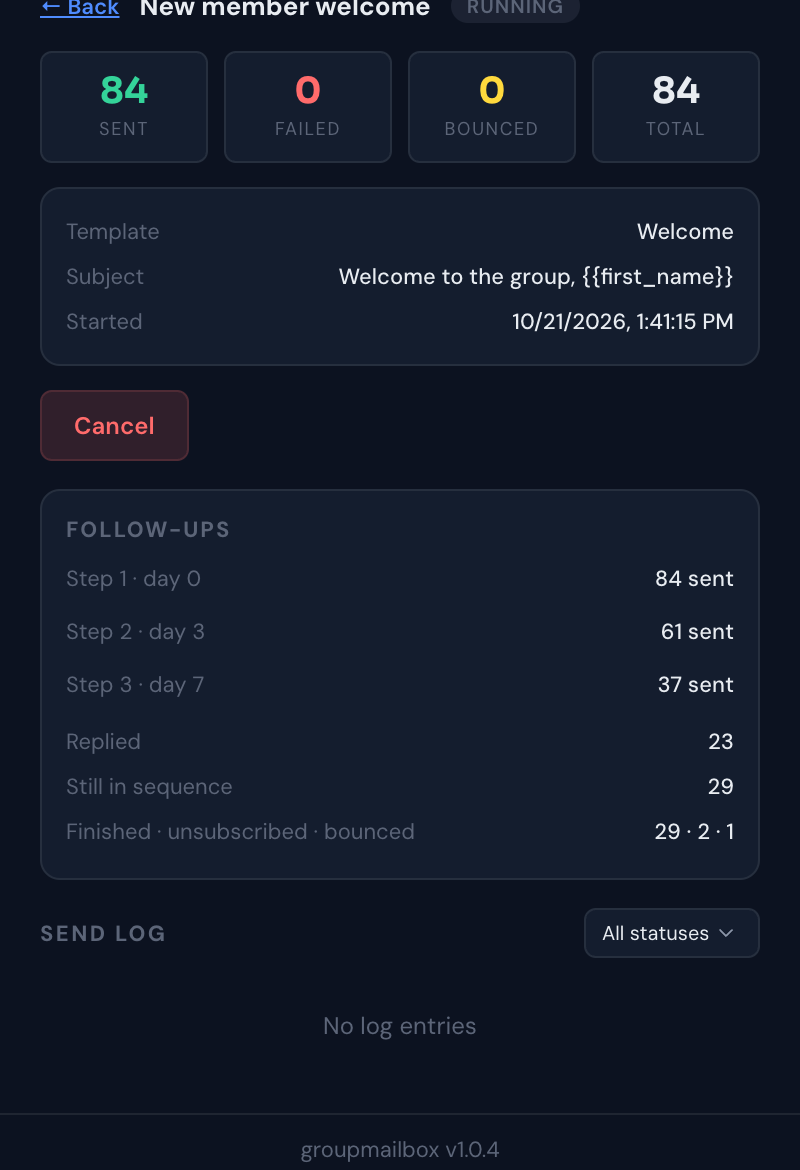
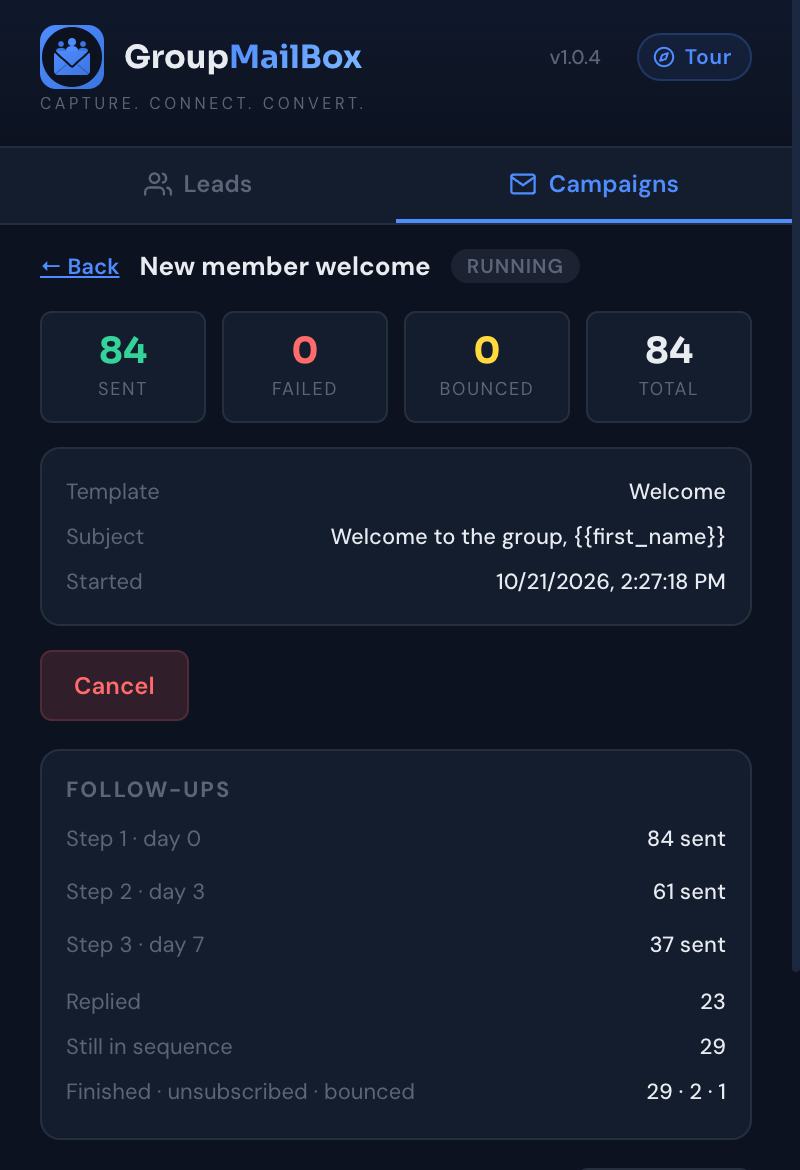
content: alternative pages for Groups Pro, GroupHunter, Groupwise, Group Doorman; store screenshots and listing update
Facts dated 30 Oct 2026 from the competitor research. Store images use the
real side panel with fictional sample data.

diff --git a/app/compare/groups-pro-alternative/page.tsx b/app/compare/groups-pro-alternative/page.tsx
@@ -1,0 +1,53 @@
+import type { Metadata } from 'next';
+import ComparisonPage from '@/components/ComparisonPage';
+
+// Facts checked 30 Oct 2026: AppSumo deal sold out (2 groups per code, 4.6 from 11 reviews), Chrome Web Store
+// listing returns an empty page, groupspro.io footer reads 2020, a 2025 AppSumo review says it stopped working
+// after the extension was shut down.
+export const metadata: Metadata = {
+  alternates: { canonical: '/compare/groups-pro-alternative/' },
+  title: 'Groups Pro Alternative: Keep Approving and Emailing Members (2026)',
+  description:
+    'Groups Pro’s AppSumo deal is sold out and its Chrome listing is gone. GroupMailBox approves Facebook group members, saves their answers to Google Sheets and sends follow-ups from your Gmail. Free plan.',
+};
+
+export default function GroupsProAlternativePage() {
+  return (
+    <ComparisonPage
+      competitorName="Groups Pro"
+      competitorSlug="groups-pro"
+      intro="Groups Pro approved Facebook group members who answered your questions and sent their emails to your autoresponder. Its AppSumo lifetime deal is sold out, its Chrome Web Store listing no longer shows the extension, and a 2025 review says it stopped working. If you relied on it, here is how to keep approving members and emailing them."
+      comparison={[
+        { feature: 'Status (checked 30 Oct 2026)', gmb: 'Active and updated', competitor: 'Chrome listing empty, AppSumo deal sold out' },
+        { feature: 'Approve members who answered', gmb: 'Yes, at a safe pace (Pro)', competitor: 'Yes (all, answered all questions, or a pre-approved list)' },
+        { feature: 'Save answers', gmb: 'Every answer, to your Google Sheet', competitor: 'Name and email to your autoresponder' },
+        { feature: 'Welcome and follow-up emails', gmb: 'Built in, from your Gmail, stops on reply', competitor: 'Through your autoresponder' },
+        { feature: 'Needs another email tool', gmb: 'No', competitor: 'Yes (ActiveCampaign, ConvertKit, HighLevel or Zapier)' },
+        { feature: 'Free plan', gmb: 'Yes, 1 group', competitor: '—' },
+      ]}
+      gmbPros={[
+        'Follow-ups sent from your own Gmail, so no autoresponder subscription is needed',
+        'Every screening answer saved, not only name and email',
+        'Approves at a human pace and pauses if Facebook pushes back',
+        'Your list lives in your Google Sheet, so you can export it anywhere',
+      ]}
+      competitorPros={['Simple approval modes', 'Native links to popular autoresponders']}
+      gmbCons={['No native ActiveCampaign or HighLevel push yet (export from Sheets instead)', 'Newer in the market']}
+      competitorCons={['Chrome Web Store listing no longer shows the extension', 'Lifetime deal sold out, so new users cannot buy it']}
+      faq={[
+        {
+          question: 'Is Groups Pro still working?',
+          answer: 'We cannot confirm it is. On 30 October 2026 its Chrome Web Store page showed no extension, its AppSumo deal was sold out, and a 2025 AppSumo review said it stopped working after the extension was shut down. Check with the vendor if you still have access.',
+        },
+        {
+          question: 'How do I switch from Groups Pro to GroupMailBox?',
+          answer: 'Install GroupMailBox, open your group’s member requests page and connect a Google Sheet. New requests and their answers are saved from that moment. To keep emailing your existing list, import it into the same sheet.',
+        },
+        {
+          question: 'Can I still send members to my autoresponder?',
+          answer: 'Yes. Your Google Sheet works with any tool that imports from Sheets or CSV. Many admins find they no longer need the autoresponder, because GroupMailBox sends the welcome email and follow-ups from Gmail.',
+        },
+      ]}
+    />
+  );
+}

diff --git a/app/compare/group-doorman-alternative/page.tsx b/app/compare/group-doorman-alternative/page.tsx
@@ -1,0 +1,49 @@
+import type { Metadata } from 'next';
+import ComparisonPage from '@/components/ComparisonPage';
+
+// Facts checked 30 Oct 2026 (Chrome Web Store + groupdoorman.com): 201 users, 4.4 from 8 ratings, v1.3.11
+// updated 8 Jun 2026; approval rules + autorun; Sheets and 20–30+ email platforms; email verification;
+// no public prices; 14-day trial, 30-day money-back.
+export const metadata: Metadata = {
+  alternates: { canonical: '/compare/group-doorman-alternative/' },
+  title: 'Group Doorman Alternative with Gmail Follow-ups (2026)',
+  description:
+    'Compare Group Doorman and GroupMailBox for Facebook group lead capture. GroupMailBox shows its prices, has a free plan and sends follow-ups from your Gmail that stop when members reply.',
+};
+
+export default function GroupDoormanAlternativePage() {
+  return (
+    <ComparisonPage
+      competitorName="Group Doorman"
+      competitorSlug="group-doorman"
+      intro="Group Doorman collects membership answers, approves members by rule and sends them to Google Sheets or one of many email platforms, with email verification built in. GroupMailBox does the capture and approval too, and then follows up from your own Gmail, so you do not need a separate email platform."
+      comparison={[
+        { feature: 'Capture requests + answers', gmb: 'Yes', competitor: 'Yes' },
+        { feature: 'Approval', gmb: 'Auto-approve at a safe pace (Pro)', competitor: 'Rules (all, some or all questions answered) with an autorun schedule' },
+        { feature: 'Google Sheets', gmb: 'Native', competitor: 'Yes' },
+        { feature: 'Email platforms', gmb: 'Sends from your Gmail, stops on reply', competitor: '20+ platforms such as Mailchimp, ActiveCampaign, ConvertKit' },
+        { feature: 'Public pricing', gmb: 'Free, $29 and $99 a month', competitor: 'Not shown on its site (14-day trial)' },
+        { feature: 'Free plan', gmb: 'Yes, 1 group', competitor: 'Trial only' },
+      ]}
+      gmbPros={[
+        'No email platform needed: welcome and follow-ups go from your Gmail',
+        'Follow-ups stop automatically when a member replies',
+        'Prices on the page, plus a free plan',
+        'Finds emails even inside a sentence',
+      ]}
+      competitorPros={['Many email platform integrations', 'Verifies emails before sending them on', 'Flexible approval rules and schedule']}
+      gmbCons={['Fewer native email platform integrations (export from Sheets instead)', 'No email verification step yet']}
+      competitorCons={['Prices not shown publicly', 'Small user base (about 200 Chrome users)']}
+      faq={[
+        {
+          question: 'What is the difference between Group Doorman and GroupMailBox?',
+          answer: 'Both capture member answers and approve members. Group Doorman hands the email address to your email platform. GroupMailBox sends the welcome email and follow-ups itself, from your Gmail, and stops when someone replies.',
+        },
+        {
+          question: 'How much does Group Doorman cost?',
+          answer: 'Its website did not show prices when we checked on 30 October 2026; it offers a 14-day free trial and a 30-day money-back guarantee. GroupMailBox is free for one group, then $29 or $99 a month.',
+        },
+      ]}
+    />
+  );
+}

diff --git a/app/compare/grouphunter-alternative/page.tsx b/app/compare/grouphunter-alternative/page.tsx
@@ -1,0 +1,48 @@
+import type { Metadata } from 'next';
+import ComparisonPage from '@/components/ComparisonPage';
+
+// Facts checked 30 Oct 2026: grouphunter.io now serves an unrelated site; WHOIS shows the domain re-registered
+// on 6 Oct 2026. Earlier it described itself as capture + auto-approve + CRM sync (search index snapshots).
+export const metadata: Metadata = {
+  alternates: { canonical: '/compare/grouphunter-alternative/' },
+  title: 'GroupHunter Alternative: GroupHunter Is Gone, What Now? (2026)',
+  description:
+    'GroupHunter’s website no longer hosts the Facebook group tool. GroupMailBox captures member requests and answers, auto-approves safely and follows up from Gmail. Free plan.',
+};
+
+export default function GroupHunterAlternativePage() {
+  return (
+    <ComparisonPage
+      competitorName="GroupHunter"
+      competitorSlug="grouphunter"
+      intro="GroupHunter turned Facebook group members into leads: it captured join requests, auto-approved members and synced them to a CRM. Its website no longer hosts the product, and the domain was re-registered by someone else in October 2026. If you used it, here is a replacement that does the same job and adds email follow-up."
+      comparison={[
+        { feature: 'Status (checked 30 Oct 2026)', gmb: 'Active and updated', competitor: 'Website no longer hosts the product' },
+        { feature: 'Capture member requests + answers', gmb: 'Yes', competitor: 'No longer available' },
+        { feature: 'Auto-approve', gmb: 'Yes, at a safe pace (Pro)', competitor: 'No longer available' },
+        { feature: 'Where leads go', gmb: 'Your Google Sheet', competitor: 'No longer available' },
+        { feature: 'Follow-up emails', gmb: 'From your Gmail, stops on reply', competitor: 'No longer available' },
+        { feature: 'Free plan', gmb: 'Yes, 1 group', competitor: '—' },
+      ]}
+      gmbPros={[
+        'Same core job: capture, approve, keep every lead',
+        'Leads saved to a Google Sheet you own, so a tool shutting down never takes your list with it',
+        'Welcome email and follow-ups from your Gmail',
+        'Free plan to start today',
+      ]}
+      competitorPros={['Combined capture, approval and CRM sync in one tool']}
+      gmbCons={['Newer in the market', 'No built-in CRM; your sheet is the list']}
+      competitorCons={['Website no longer hosts the product', 'Domain now owned by an unrelated site']}
+      faq={[
+        {
+          question: 'What happened to GroupHunter?',
+          answer: 'As of 30 October 2026 grouphunter.io shows an unrelated website, and domain records show it was registered again on 6 October 2026, so the original product is no longer available there.',
+        },
+        {
+          question: 'How do I replace GroupHunter?',
+          answer: 'Install GroupMailBox from the Chrome Web Store, open your member requests page and connect a Google Sheet. Requests and answers are saved from then on, and you can turn on auto-approve and follow-up emails when you are ready.',
+        },
+      ]}
+    />
+  );
+}

diff --git a/app/compare/groupwise-alternative/page.tsx b/app/compare/groupwise-alternative/page.tsx
@@ -1,0 +1,48 @@
+import type { Metadata } from 'next';
+import ComparisonPage from '@/components/ComparisonPage';
+
+// Facts checked 30 Oct 2026: groupwisefb.com is a parked "Coming Soon" page; the Chrome Web Store listing
+// (about 155 users, 3.4 from 5 ratings) was last updated 24 Jun 2024 and lists capture only.
+export const metadata: Metadata = {
+  alternates: { canonical: '/compare/groupwise-alternative/' },
+  title: 'Groupwise Alternative for Facebook Group Admins (2026)',
+  description:
+    'Groupwise has not been updated since June 2024 and its website is parked. GroupMailBox captures member requests, syncs to Google Sheets, auto-approves and follows up from Gmail. Free plan.',
+};
+
+export default function GroupwiseAlternativePage() {
+  return (
+    <ComparisonPage
+      competitorName="Groupwise"
+      competitorSlug="groupwise"
+      intro="Groupwise collected names, profile links, emails and answers from your member requests page. Its Chrome extension has not been updated since June 2024 and its website is a parked page. Facebook changes its pages often, so an unmaintained capture tool tends to stop working without warning."
+      comparison={[
+        { feature: 'Last update (checked 30 Oct 2026)', gmb: 'Updated regularly', competitor: '24 Jun 2024' },
+        { feature: 'Capture requests + answers', gmb: 'Yes', competitor: 'Yes' },
+        { feature: 'Google Sheets sync', gmb: 'Native', competitor: 'Not listed' },
+        { feature: 'Auto-approve', gmb: 'Yes, at a safe pace (Pro)', competitor: 'Not listed' },
+        { feature: 'Follow-up emails', gmb: 'From your Gmail, stops on reply', competitor: 'Not listed' },
+        { feature: 'Free plan', gmb: 'Yes, 1 group', competitor: '—' },
+      ]}
+      gmbPros={[
+        'Actively maintained as Facebook changes its pages',
+        'Sheets sync, auto-approve and Gmail follow-ups in one place',
+        'Finds emails even inside a sentence',
+        'Free plan for one group',
+      ]}
+      competitorPros={['Simple capture of names, emails and answers']}
+      gmbCons={['Newer in the market']}
+      competitorCons={['No update since June 2024', 'Website is a parked page', 'Sheets, approval and email not listed']}
+      faq={[
+        {
+          question: 'Is Groupwise still maintained?',
+          answer: 'Its Chrome Web Store listing shows a last update of 24 June 2024, and groupwisefb.com shows a parked “Coming Soon” page (checked 30 October 2026).',
+        },
+        {
+          question: 'Can I move my Groupwise data to GroupMailBox?',
+          answer: 'Yes. Put your existing export in a Google Sheet, then connect that same sheet in GroupMailBox so new members land beside your old list.',
+        },
+      ]}
+    />
+  );
+}

diff --git a/lib/constants.ts b/lib/constants.ts
@@ -38,6 +38,10 @@ export const FOOTER_LINKS = {
     { label: 'vs Group Collector', href: '/compare/group-collector-alternative' },
     { label: 'GMass alternative', href: '/compare/gmass-alternative' },
     { label: 'Mailmeteor alternative', href: '/compare/mailmeteor-alternative' },
+    { label: 'Groups Pro alternative', href: '/compare/groups-pro-alternative' },
+    { label: 'Group Doorman alternative', href: '/compare/group-doorman-alternative' },
+    { label: 'GroupHunter alternative', href: '/compare/grouphunter-alternative' },
+    { label: 'Groupwise alternative', href: '/compare/groupwise-alternative' },
   ],
   resources: [
     { label: 'Affiliates (40%)', href: '/affiliates' },

diff --git a/docs/chrome-web-store-listing.md b/docs/chrome-web-store-listing.md
@@ -1,4 +1,4 @@
-# Chrome Web Store listing (proposed, 26 Oct 2026)
+# Chrome Web Store listing (proposed, updated 30 Oct 2026)
 
 Paste into the developer dashboard. Keep claims identical to the website.
 
@@ -16,8 +16,9 @@ Turn Facebook group members into customers.
 GroupMailBox works next to your group's member requests page:
 
 • Capture every member request with all 3 screening answers, the moment it appears
+• Finds the email even inside a sentence ("sure, it's jordan@example.com")
 • Sync leads to your own Google Sheet, with a column per answer
-• Auto-approve members with human-like delays (Pro)
+• Auto-approve at a safe pace (Pro): a few seconds apart, max 50 an hour, and a 6-hour pause if Facebook stops accepting approvals
 • Follow up from your own Gmail: a welcome email plus up to 4 follow-ups in the same thread
 • Follow-ups stop automatically when someone replies or unsubscribes
 • One-click unsubscribe in every email; opted-out people are never emailed again
@@ -30,9 +31,12 @@ Built for coaches, course creators, consultants, agencies and community admins w
 
 Privacy: GroupMailBox only reads member requests you can already see as an admin. Leads go to your own Google Sheet. We never sell your data. Email is sent only to members who shared their email with you.
 
-Switching from GroupKit (shut down Oct 2026), Groupboss, Group Leads or Group Collector? Connect the same Google Sheet and keep going.
+Switching from GroupKit (shut down Oct 2026), Groups Pro, Groupboss, Group Leads or Group Collector? Connect the same Google Sheet and keep going.
+
+Good to know: works on desktop Chrome with Facebook set to English. Auto-approve runs while the member requests page is open; follow-up emails send from our servers even when your computer is off.
 
 ## Screenshots (1280×800, up to 5)
+Ready-made files in docs/store-assets/ (real side panel, fictional sample data):
 1. Side panel next to member requests, with "Captured" badges
 2. Google Sheet filling with names, answers and email status
 3. Campaign creator with follow-up steps and "Stop when they reply"
